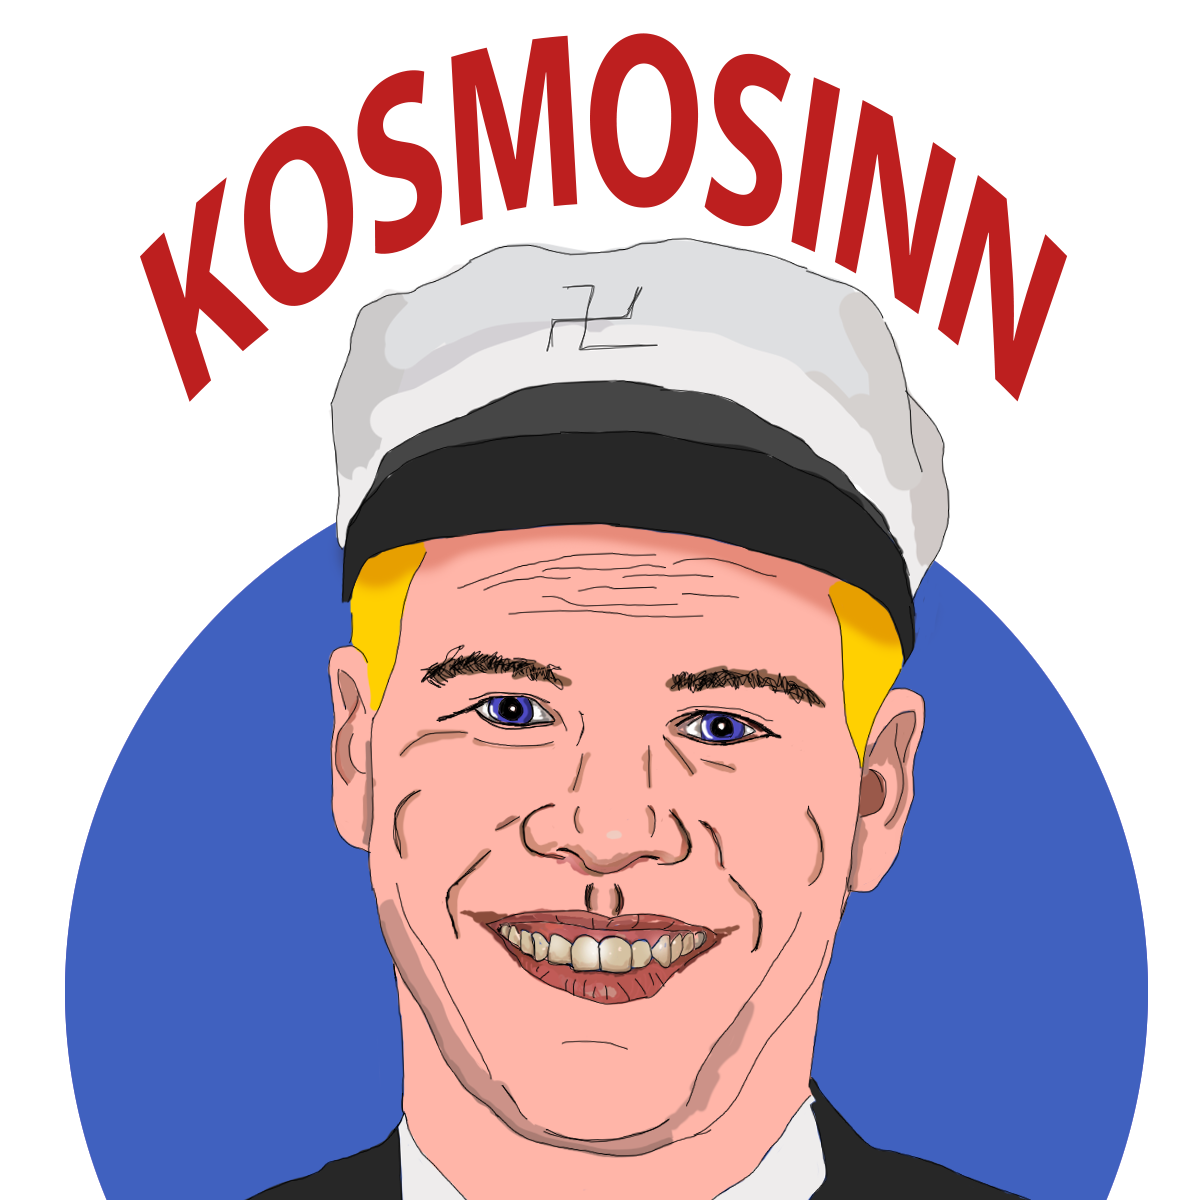
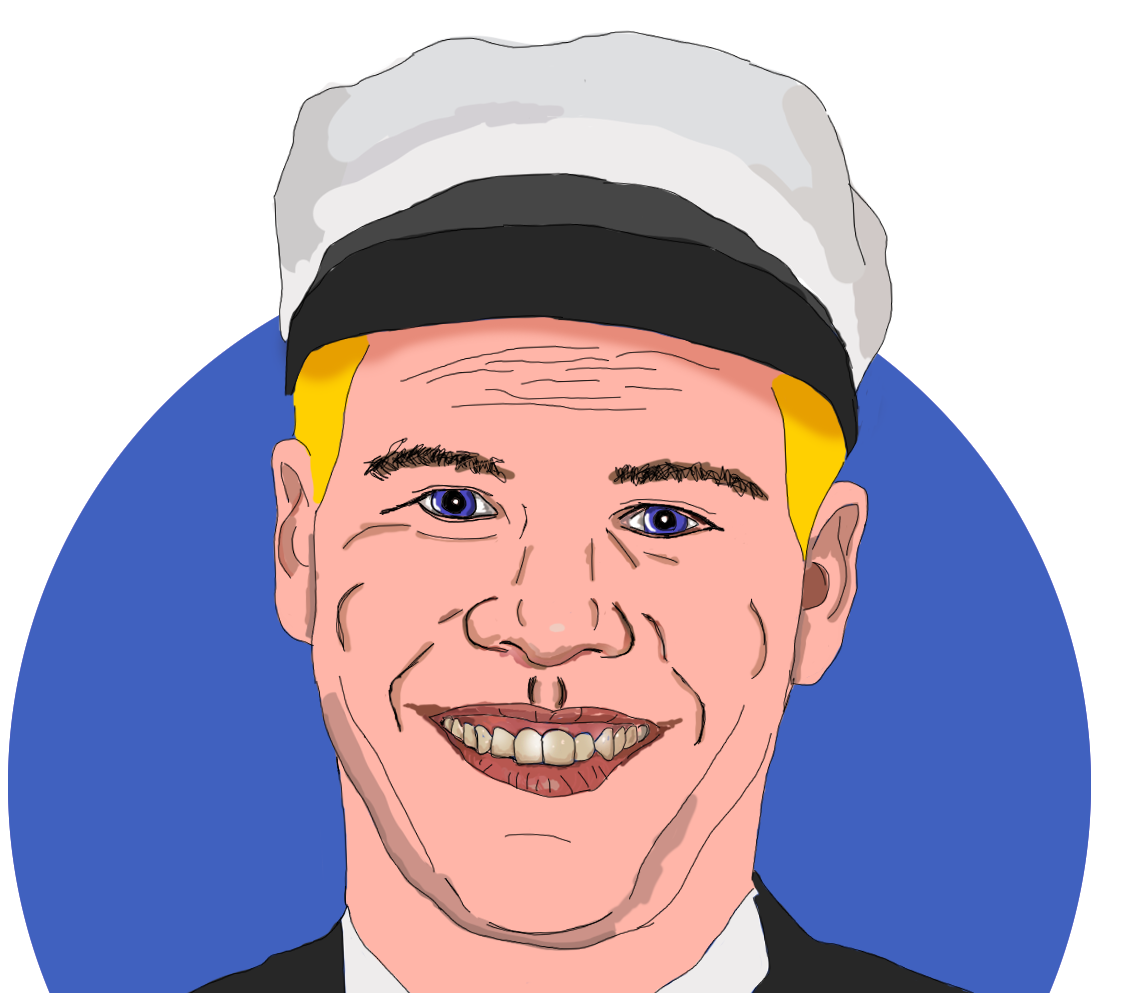
header without cross

diff --git a/Kosmosinn/src/main/resources/static/css/hero.css b/Kosmosinn/src/main/resources/static/css/hero.css
@@ -28,7 +28,7 @@ header {
 }
 
 .hero__logo {
-    width: 300px;
+    width: 350px;
     height: 300px;
     background-image: url("../viktor_nobg.png");
     background-size: cover;
